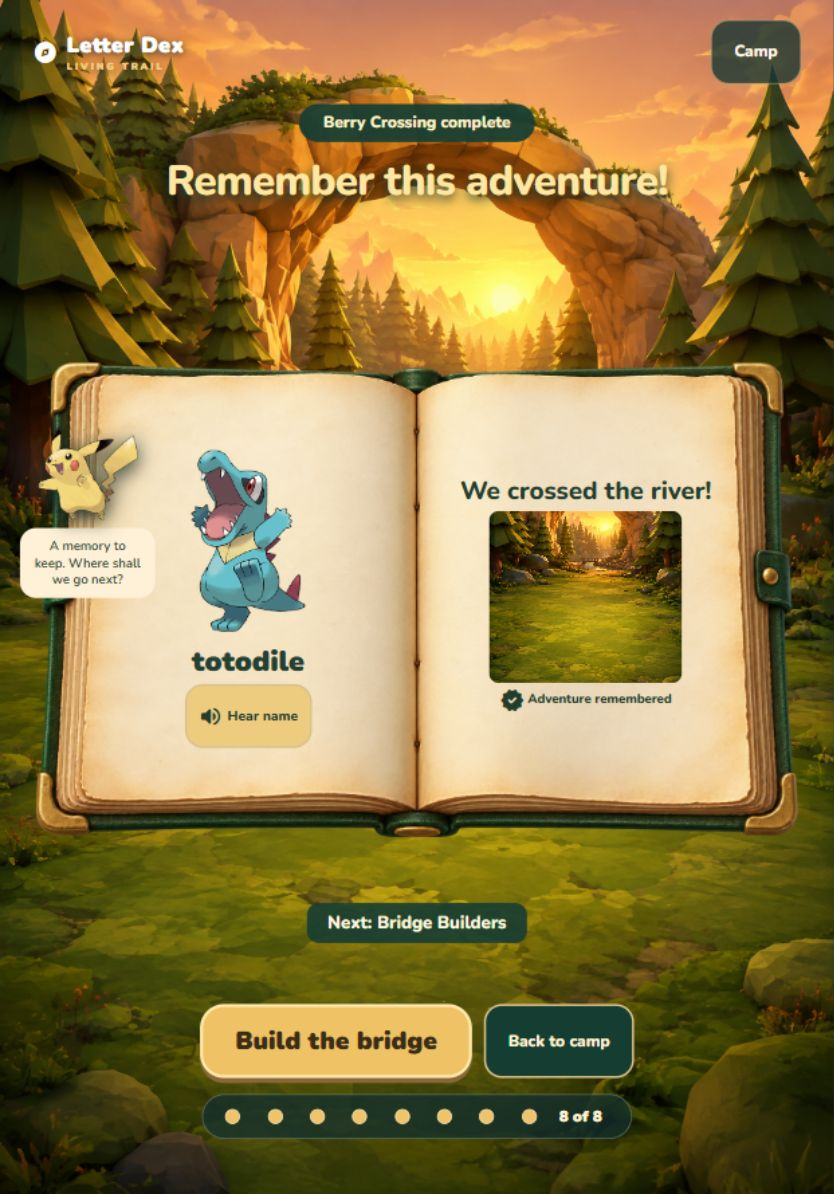
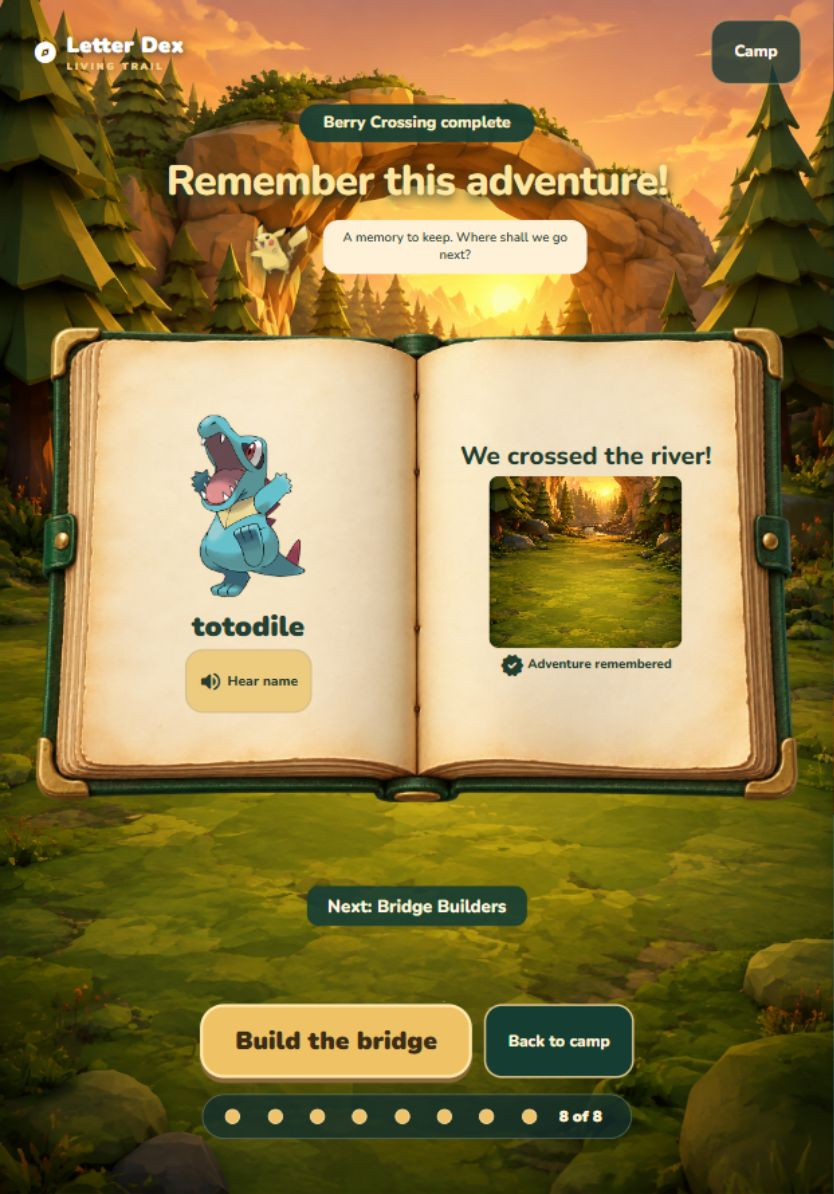
Keep discoveries readable and navigation responsive on tablets

diff --git a/src/main.js b/src/main.js
@@ -63,6 +63,7 @@ let sessionEnded = false
 let atCamp = true
 let trail = null
 let completedMathStage = null
+let navigationVersion = 0
 const progressCount = () => mode === 'math' ? mathJourney(state).correct : state.activeSession.correct
 const lifecycle = new RoundLifecycle()
 const engine = new ChooseEngine(elements.keys)
@@ -108,6 +109,7 @@ function leaveDiscovery() {
 }
 
 function enterDiscovery() {
+  navigationVersion++
   lifecycle.cancel(); globalThis.speechSynthesis?.cancel(); engine.clear()
   atCamp = false
   elements.playView.hidden = true; elements.pokedexView.hidden = true
@@ -263,6 +265,7 @@ function playRound() {
 }
 
 async function selectMode(nextMode) {
+  const version = ++navigationVersion
   leaveDiscovery()
   lifecycle.cancel()
   globalThis.speechSynthesis?.cancel()
@@ -289,20 +292,21 @@ async function selectMode(nextMode) {
   elements.sessionProgress.hidden = collectionMode
   elements.lettersSettings.hidden = nextMode !== 'letters'
   elements.wordsSettings.hidden = nextMode !== 'words'
+  trail?.setActive(!collectionMode)
 
   if (collectionMode) {
     engine.clear()
-    await renderPokedex(elements.pokedexView, state.collection)
+    await renderPokedex(elements.pokedexView, state.collection, () => version === navigationVersion)
   } else {
     if (sessionEnded) startNewSession()
     trail?.setChapter(nextMode === 'math' ? mathJourney(state).stage : 0)
     paintProgress()
     playRound('mode selected')
   }
-  trail?.setActive(!collectionMode)
 }
 
 function showCamp() {
+  navigationVersion++
   leaveDiscovery()
   lifecycle.cancel()
   globalThis.speechSynthesis?.cancel()

diff --git a/test/pokedex-navigation.test.js b/test/pokedex-navigation.test.js
@@ -1,0 +1,33 @@
+import test from 'node:test'
+import assert from 'node:assert/strict'
+import { renderPokedex } from '../src/ui/pokedex-view.js'
+import { clearPokemonCache } from '../src/core/pokeapi.js'
+
+test('a late Pokédex request cannot replace a newer view after navigation', async t => {
+  clearPokemonCache()
+  let resolveRequest
+  const request = new Promise(resolve => { resolveRequest = resolve })
+  t.mock.method(globalThis, 'fetch', () => request)
+  const root = { innerHTML: '' }
+  let current = true
+  const render = renderPokedex(root, { abra: { slug: 'abra', count: 1 } }, () => current)
+  assert.match(root.innerHTML, /Opening/)
+  current = false
+  root.innerHTML = 'A newer collection view'
+  resolveRequest({ ok: true, json: async () => ({ name: 'abra', sprites: {} }) })
+  await render
+  assert.equal(root.innerHTML, 'A newer collection view')
+  clearPokemonCache()
+})
+
+test('the active Pokédex still displays its fetched collection', async t => {
+  clearPokemonCache()
+  t.mock.method(globalThis, 'fetch', async () => ({
+    ok: true, json: async () => ({ name: 'abra', sprites: { front_default: 'abra.png' } }),
+  }))
+  const root = { innerHTML: '' }
+  await renderPokedex(root, { abra: { slug: 'abra', count: 2 } })
+  assert.match(root.innerHTML, /abra.png/)
+  assert.match(root.innerHTML, /Caught 2×/)
+  clearPokemonCache()
+})

diff --git a/discovery.css b/discovery.css
@@ -69,3 +69,22 @@
   .journal-spread { min-width:460px; margin:100px -30px 40px; }
   .discovery-controls { flex-direction:column; align-items:stretch; }
 }
+@media(orientation:portrait) and (min-width:561px) and (max-width:1000px) {
+  .dex[data-discovery]:has(#discoveryView[data-step="journal"]) .buddy {
+    top:215px; left:50%; transform:translateX(-50%); width:340px;
+    display:flex; flex-direction:row; align-items:center; gap:12px;
+  }
+  .dex[data-discovery]:has(#discoveryView[data-step="journal"]) .buddy img { width:64px; height:64px; }
+  .dex[data-discovery]:has(#discoveryView[data-step="journal"]) .buddy p { flex:1; margin:0; }
+  .journal-spread { margin-top:95px; }
+}
+@media(orientation:landscape) and (max-height:650px) {
+  .dex[data-discovery] { padding-top:12px; padding-bottom:12px; }
+  #discoveryView { margin-top:0; min-height:0; }
+  .discovery-chapter { margin:0; padding:4px 18px; }
+  #discoveryView h1 { font-size:1.7rem; margin:4px 0; }
+  .journal-spread { width:400px; }
+  .discovery-teaser { margin:4px 0; padding:4px 16px; }
+  .discovery-controls { padding-top:0; }
+  .dex[data-discovery] .foot { margin-top:8px; min-height:35px; }
+}

diff --git a/src/ui/pokedex-view.js b/src/ui/pokedex-view.js
@@ -1,13 +1,13 @@
 import { getPokemon } from '../core/pokeapi.js'
 
-export async function renderPokedex(root, collection) {
+export async function renderPokedex(root, collection, isCurrent = () => true) {
   const caught = Object.values(collection).sort((a, b) => a.slug.localeCompare(b.slug))
   if (!caught.length) {
     root.innerHTML = `
       <div class="empty-dex">
         <span aria-hidden="true">◇</span>
         <h2>Your Letter Dex is waiting</h2>
-        <p>Read words to catch your first Pokémon.</p>
+        <p>Finish a sound adventure, or play words and math to meet your first Pokémon.</p>
       </div>`
     return
   }
@@ -25,5 +25,5 @@ export async function renderPokedex(root, collection) {
       return `<article class="dex-card missing"><strong>${entry.slug}</strong><span>Caught ${entry.count}×</span></article>`
     }
   }))
-  root.innerHTML = `<div class="dex-grid">${cards.join('')}</div>`
+  if (isCurrent()) root.innerHTML = `<div class="dex-grid">${cards.join('')}</div>`
 }

diff --git a/design-qa.md b/design-qa.md
@@ -69,7 +69,29 @@ Reduced motion makes the greeting animation effectively static.
 - Normal browser logs were free of errors before the intentional network failure.
 - Unit tests cover encounter uniqueness, step ordering, export/import resume, greeting
   gating, unchanged collection rewards, old saves, repeated species, and request retry.
-- Full suite: 22 tests passed.
+- Full suite: 24 tests passed.
+
+## Follow-up tablet and navigation pass
+
+- P2 resolved: at 600 × 960, the companion covered the journal's name and Hear name
+  control. Portrait journal layouts now place the companion in a horizontal row above
+  the book. The companion ends at y279 and the book starts at y301 on the compact
+  tablet; at 834 × 1194 the book starts at y311. Neither overlaps.
+- P2 resolved: 960 × 600 landscape required scrolling to reach the continuation
+  controls. Compact landscape spacing and a 400px book now keep document height at
+  600px. Hear name remains 127 × 64px. The portrait document remains 960px high.
+- P2 resolved: returning from a loading Pokédex could later pause the active trail.
+  Scene activation now occurs when navigation begins, and obsolete collection loads
+  cannot overwrite a newer view. Regression tests cover deferred and active loads.
+- Browser check: held seven Pokémon requests, switched from Pokédex to Math,
+  restored networking, and completed an addition answer. Math advanced to 1 of 8.
+- Browser check: unanswered sound round has empty reveal text, hidden answer artwork,
+  and a companion line containing no answer letter.
+- Evidence: `docs/qa/discovery-compact-tablet.png`,
+  `docs/qa/discovery-compact-landscape.png`, and refreshed `discovery-journal.png`.
+  The refreshed reference/game comparison was inspected after the layout fixes.
+- Temporary viewport and request interception overrides were removed; browser error
+  log was empty at the end of this pass.
 
 ## Remaining checks
 
